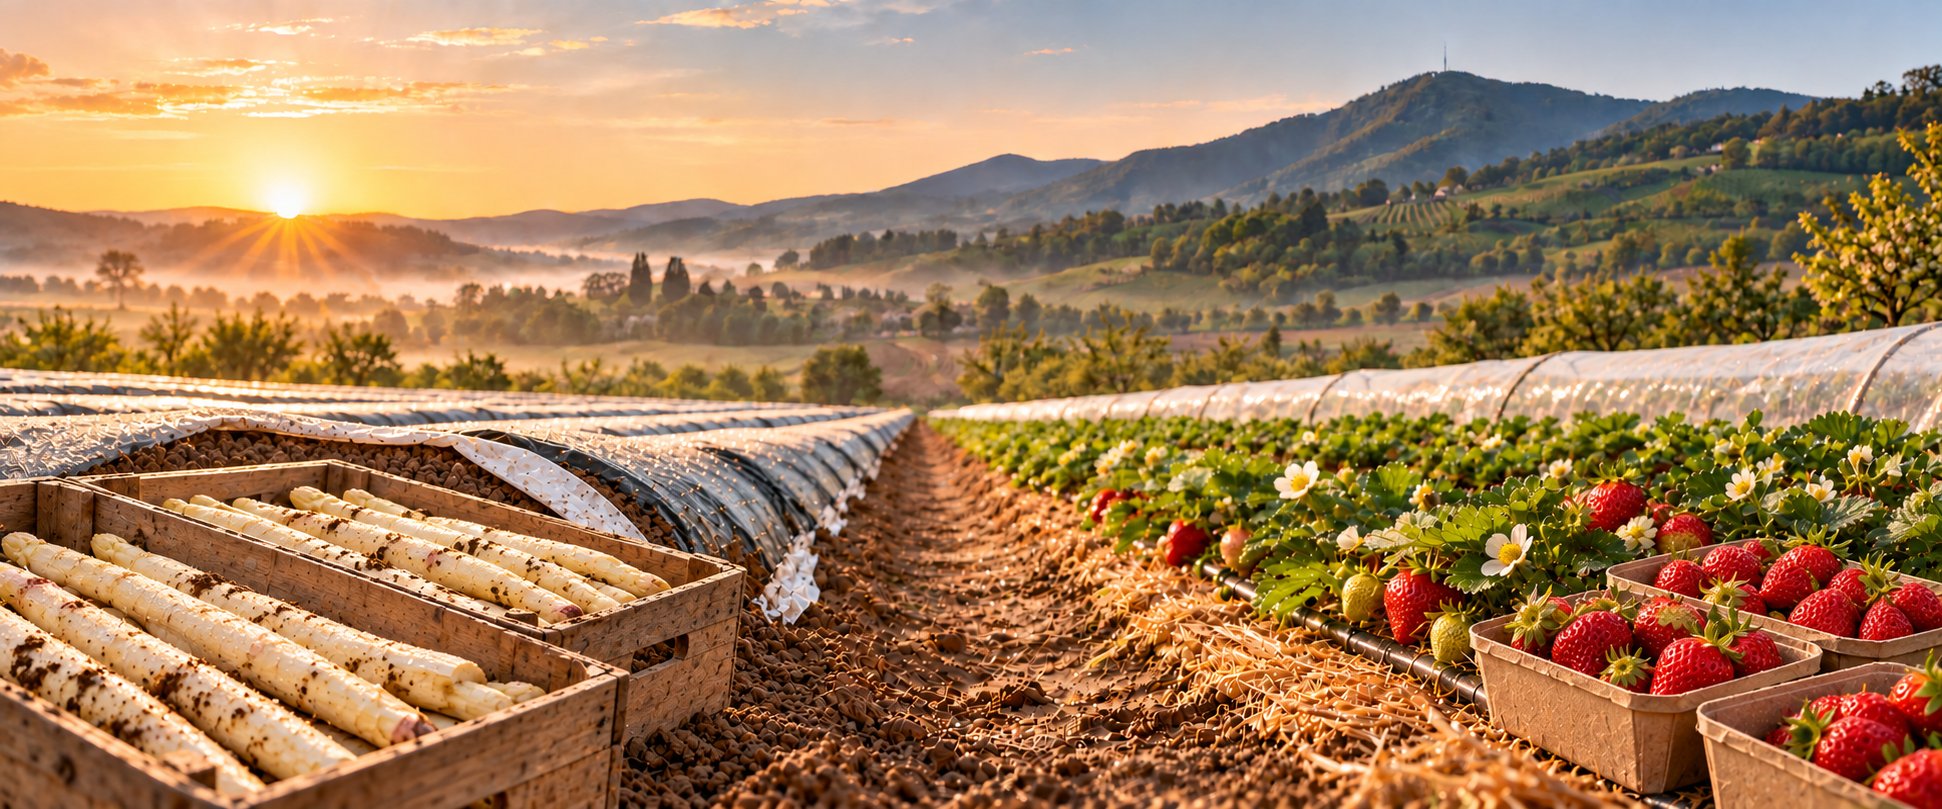
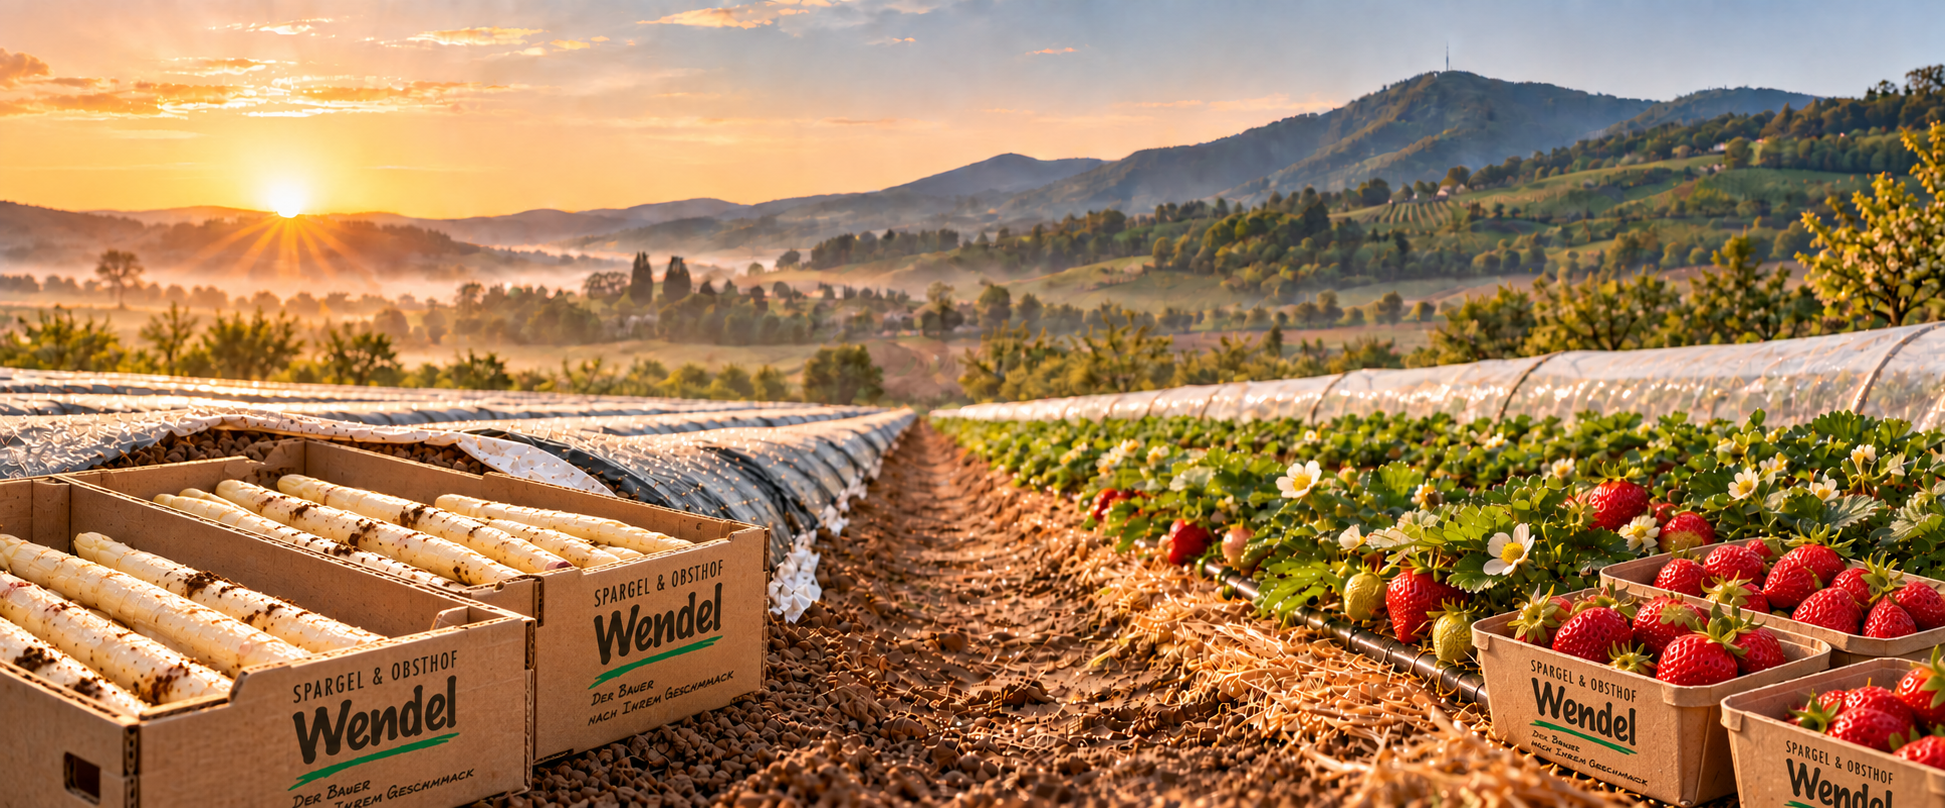
Brand final harvest frame with Wendel packaging

diff --git a/docs/dual-crop-storyboard.md b/docs/dual-crop-storyboard.md
@@ -10,13 +10,13 @@ Seven locked-composition, full-screen frames for a future scroll-driven sequence
 4. **Underground growth / blossom** — white asparagus shoots elongate inside the dark ridge while strawberries flower and attract pollinators.
 5. **Harvest readiness** — a fine crack or emerging tip signals an asparagus spear; strawberry fruit progresses from green through blush to red.
 6. **Hand harvest** — asparagus is exposed and cut below the surface with a specialist knife; ripe strawberries are picked by the stem into cardboard punnets.
-7. **Fresh from the field** — asparagus is aligned in reusable wooden harvest crates; strawberries are presented in recyclable cardboard punnets for rapid cooling and farm-shop sale.
+7. **Fresh from the field** — asparagus is aligned in kraft cardboard produce boxes; strawberries are presented in cardboard punnets. Both carry Wendel branding based on the official logo. This is a packaging concept, not a verified reproduction of the company's existing boxes.
 
 The important difference is that marketable white asparagus is a shoot harvested before it reaches light. It does not pass through a flowering stage during the harvest story. After the traditional end of harvest on 24 June, remaining shoots are allowed to develop into tall green fern so the crown can rebuild carbohydrate reserves for the following season.
 
 ## Image files
 
-All images are `1942 × 809` PNG files:
+Frames 1–6 are `1942 × 809` PNG files. The branded revision of frame 7 is `1945 × 808`; normalize canvas dimensions before video interpolation.
 
 - `01-planting.png`
 - `02-establishment.png`
@@ -34,4 +34,10 @@ All images are `1942 × 809` PNG files:
 
 ## Generation mode
 
-Generated as sequential edits from the approved panoramic reference. The camera, central path, skyline, sunrise direction and overall grade were kept stable while the crop state changed from frame to frame. No text or logos are baked into the images.
+Generated as sequential edits from the approved panoramic reference. The camera, central path, skyline, sunrise direction and overall grade were kept stable while the crop state changed from frame to frame. Frames 1–6 contain no text or logos. Frame 7 includes Wendel branding on the packaging.
+
+### Frame 7 packaging revision
+
+Mode: built-in image generation, precise object edit. Official logo reference: https://spargelhof-wendel.de/wp-content/uploads/2023/10/Spargel-und-Obsthof-Wendel-Der-Bauer-nach-Ihrem-Geschmack-400.png
+
+Prompt: Replace the two wooden asparagus crates on the left with open kraft corrugated cardboard produce boxes in the same positions, retaining the white asparagus. Print the supplied official logo on their front panels and on the strawberry punnets on the right: “SPARGEL & OBSTHOF”, the distinctive “Wendel” wordmark with green underline, and “Der Bauer nach Ihrem Geschmack” where legible. Match perspective, cardboard texture and sunrise shadows. Preserve the panoramic composition, landscape, plants, crops, central path, camera and lighting; add no other objects or text outside packaging.
